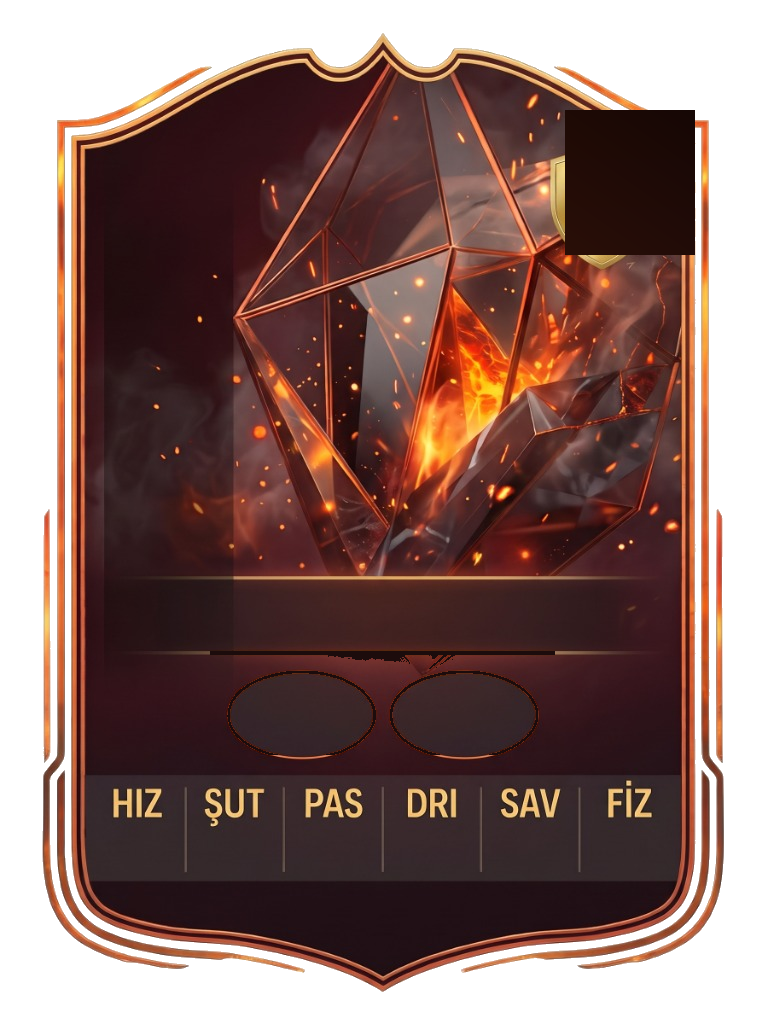
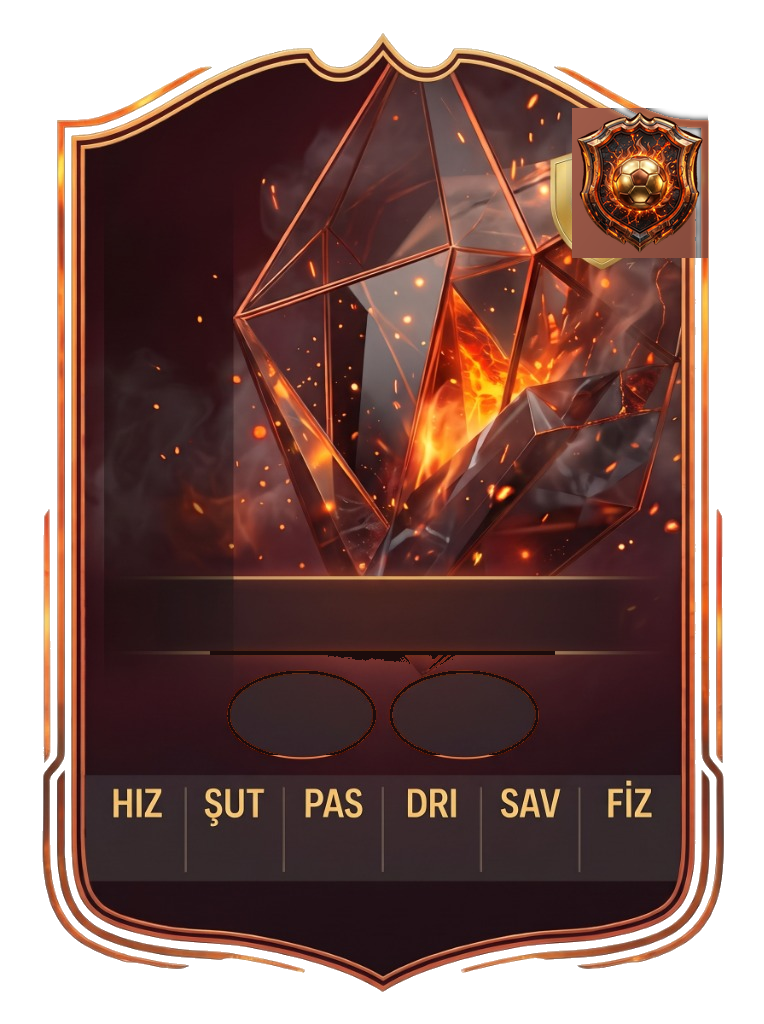
fix: photorealistic 3D crests for Alev and Revir cards, remove dark bounding artifacts and clean gold decupe

Changed region(s): [[0.7225, 0.0938, 0.9332, 0.25]]

diff --git a/src/components/card/FCCard.tsx b/src/components/card/FCCard.tsx
@@ -367,26 +367,12 @@ export const FCCard: React.FC<Props> = ({
           />
         </div>
 
-        {/* Sağ Üst Tema Kalkanı (Altın, Alev, Revir) */}
+        {/* Sağ Üst Tema Kalkanı (Altın temasında overlay, diğer temalarda şablona gömülü) */}
         {theme === 'gold' && (
           <img
             src="/cards/gold_shield.png"
             alt="Golden Crest"
             className={`absolute top-[13.5%] right-[14%] ${sizeConfig.shieldSize} object-contain pointer-events-none z-20 opacity-95 drop-shadow-md select-none`}
-          />
-        )}
-        {theme === 'inform' && (
-          <img
-            src="/cards/inform_shield.png"
-            alt="Alev Crest"
-            className={`absolute top-[13.0%] right-[13.5%] ${sizeConfig.shieldSize} object-contain pointer-events-none z-20 opacity-95 drop-shadow-[0_2px_8px_rgba(234,88,12,0.7)] select-none`}
-          />
-        )}
-        {theme === 'revir' && (
-          <img
-            src="/cards/revir_shield.png"
-            alt="Revir Crest"
-            className={`absolute top-[13.0%] right-[13.5%] ${sizeConfig.shieldSize} object-contain pointer-events-none z-20 opacity-95 drop-shadow-[0_2px_8px_rgba(56,189,248,0.7)] select-none`}
           />
         )}
 
